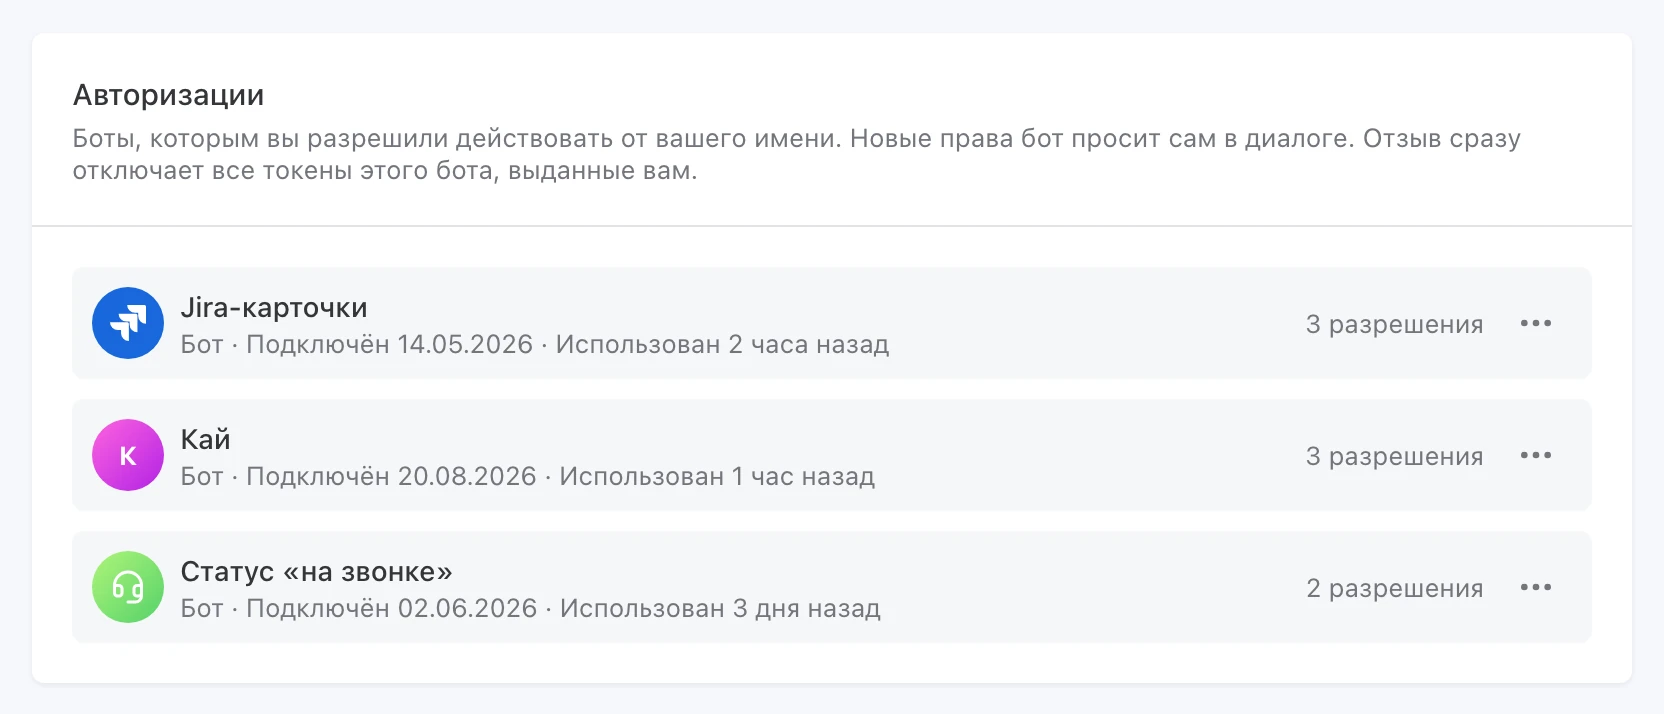
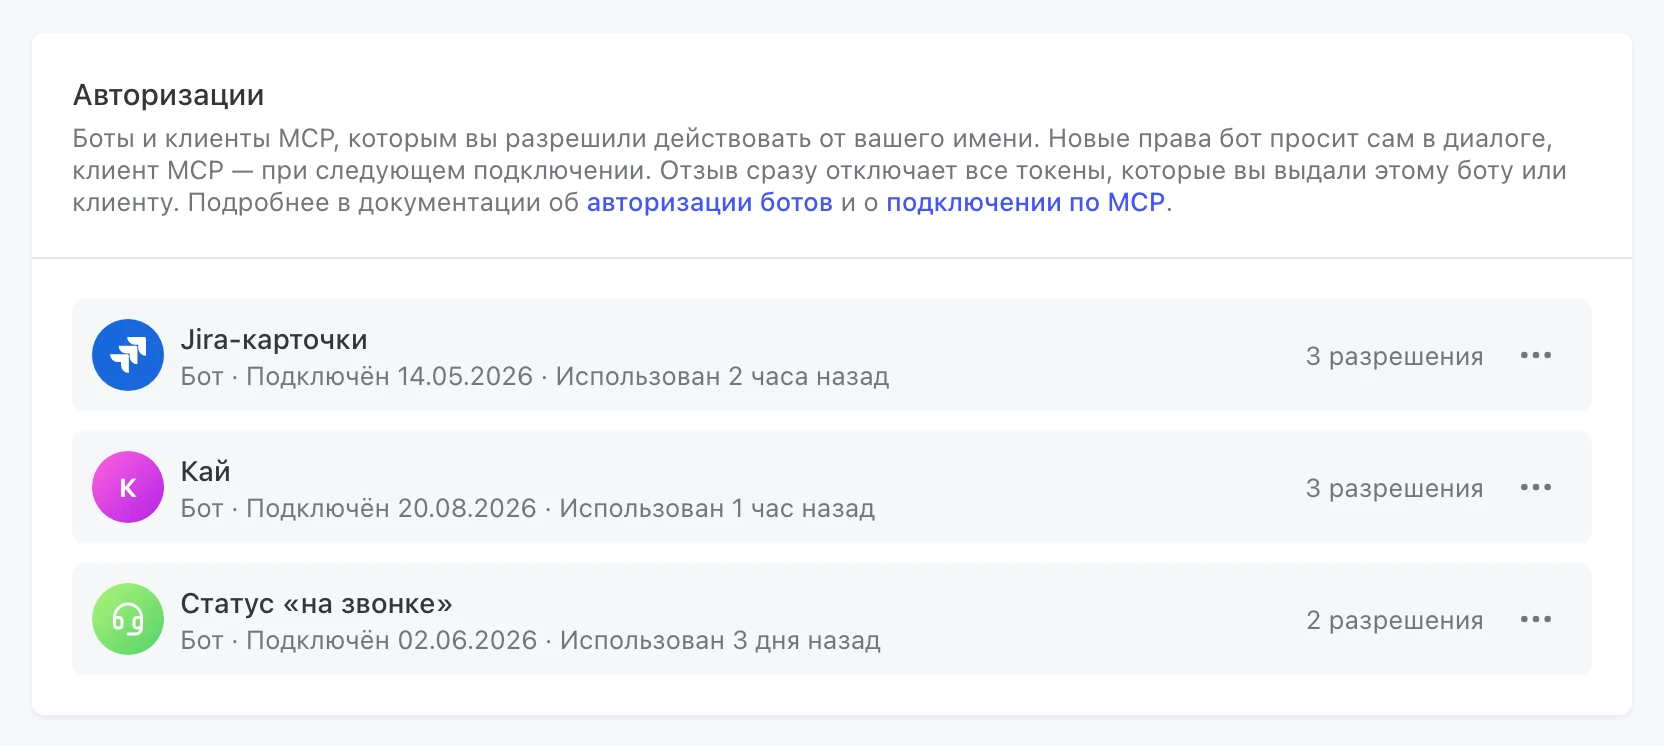
Дока: экран согласия с правами по категориям, новая подпись «Авторизаций» и плашка об обновлении продукта
- Пересняты кадры экрана согласия бота и программы с MCP: запрашиваемые права собраны в свёрнутые категории с числом прав в каждой.
- Пересняты кадры списка «Авторизации»: подпись одна для любого списка и ведёт в документацию, у Claude Code 61 разрешение.
- Текст про экран согласия в гайдах OAuth, MCP и CLI описывает категории, подписи к кадрам обновлены.
- Плашка «Обновления продукта» на странице обновлений ведёт на выпуск 28 октября «MCP-сервер Пачки».

diff --git a/apps/docs/components/mdx/mdx-components.tsx b/apps/docs/components/mdx/mdx-components.tsx
@@ -503,8 +503,8 @@ export async function ScopeRoles() {
 
 // Update manually when a new product release goes out
 const LATEST_PRODUCT_UPDATE = {
-  date: '15 октября 2026',
-  title: 'Большое обновление ботов 🤖',
+  date: '28 октября 2026',
+  title: 'MCP-сервер Пачки 🔌',
 };
 
 export function ProductUpdatesLink() {

diff --git a/apps/docs/public/guides/mcp/connect.md b/apps/docs/public/guides/mcp/connect.md
@@ -47,7 +47,7 @@
 Попросите агента: «Покажи мой профиль в Пачке». Он вызовет `pachca_get_my_card` и ответит вашим именем и ролью.
 
 
-![Экран согласия при подключении Claude Code: «Авторизовать Claude Code?», домен claude.ai, пространство и почта сотрудника, начало списка запрашиваемых разрешений](/images/mcp/mcp-consent.webp)
+![Экран согласия при подключении Claude Code: «Авторизовать Claude Code?», домен claude.ai, пространство и почта сотрудника, запрашиваемые разрешения в свёрнутых категориях с числом прав, предупреждение и кнопки «Отменить» и «Разрешить»](/images/mcp/mcp-consent.webp)
 
 *Экран согласия для программы с MCP*
 
@@ -56,7 +56,7 @@
 
 - имя программы из её документа клиента и под ним домен, на котором программа опубликовала этот документ, например `claude.ai`;
 - пространство и вашу почту: доступ выдаётся в пространство, которое сейчас открыто в браузере;
-- **Запрашиваемые разрешения** — права, которые просит программа, обычно весь каталог. Убрать отдельные права на экране нельзя;
+- **Запрашиваемые разрешения** — права, которые просит программа, обычно весь каталог. Они собраны в свёрнутые категории с числом прав в каждой, а убрать отдельные права на экране нельзя;
 - предупреждение, если программа возвращает браузер на этот же компьютер: «Разрешайте, только если вы сами сейчас подключаете … на этом компьютере».
 
 Права из каталога не расширяют ваши возможности. Каждый вызов проверяется по вашей текущей роли, и если роль не позволяет действие, агент получит отказ. Как устроен экран согласия в целом — в разделе [Согласие и отзыв](/guides/oauth/consent).
@@ -537,7 +537,7 @@ asyncio.run(main())
 
 Подключения через браузер собраны в списке **Авторизации** на странице **Интеграции** > **API**. У программы видно домен, дату подключения, последнее использование и число разрешений, а меню позволяет посмотреть разрешения и отозвать доступ. Когда в Пачке появляются новые права, программа получает их при следующем подключении.
 
-![Список «Авторизации» на странице «API»: клиент MCP Claude Code с доменом claude.ai и бот «Jira-карточки», даты подключения, последнее использование и число разрешений](/images/mcp/mcp-authorizations.webp)
+![Список «Авторизации» на странице «API»: подпись со ссылками на документацию, клиент MCP Claude Code с доменом claude.ai и бот «Jira-карточки», даты подключения, последнее использование и число разрешений](/images/mcp/mcp-authorizations.webp)
 
 *Программа с MCP в списке «Авторизации»*
 

diff --git a/apps/docs/public/guides/oauth/consent.md b/apps/docs/public/guides/oauth/consent.md
@@ -9,7 +9,7 @@
 
 Кнопка авторизации открывает экран согласия в веб-версии Пачки.
 
-![Экран согласия: «Авторизовать Jira-карточки?», пространство, почта сотрудника, запрашиваемые разрешения и кнопки «Отменить» и «Разрешить»](/images/oauth/consent.webp)
+![Экран согласия: «Авторизовать Jira-карточки?», пространство, почта сотрудника, запрашиваемые разрешения в свёрнутых категориях и кнопки «Отменить» и «Разрешить»](/images/oauth/consent.webp)
 
 *Экран согласия*
 
@@ -18,7 +18,7 @@
 
 - вопрос «Авторизовать …?» с именем бота и рядом два аватара — свой и бота;
 - пространство и свою почту — чтобы не выдать доступ из чужого аккаунта;
-- **Запрашиваемые разрешения** — набор из настроек бота, а когда прав много, они сгруппированы по категориям;
+- **Запрашиваемые разрешения** — набор из настроек бота, собранный в свёрнутые категории с числом прав в каждой. Права категории видны по щелчку;
 - кнопки **Разрешить** и **Отменить**.
 
 После **Разрешить** браузер сразу возвращается на адрес бота с кодом авторизации. **Отменить** возвращает браузер назад, и бот ничего не получает.
@@ -48,7 +48,7 @@
 
 Все боты, которым сотрудник выдал доступ, собраны в списке **Авторизации** на странице **Интеграции** > **API**. Для каждого видно, когда бот подключён и когда последний раз использовался, а меню позволяет посмотреть выданные разрешения и отозвать доступ. В том же списке — программы с AI-агентами, которые сотрудник подключил к MCP-серверу Пачки. Подробнее — в разделе [Подключение к MCP](/guides/mcp/connect#upravlenie-podklyucheniyami).
 
-![Список «Авторизации» на странице «API»: боты, дата подключения, последнее использование и число разрешений](/images/oauth/authorizations.webp)
+![Список «Авторизации» на странице «API»: подпись со ссылками на документацию, боты, дата подключения, последнее использование и число разрешений](/images/oauth/authorizations.webp)
 
 *Список «Авторизации»*
 

diff --git a/apps/docs/public/guides/cli/authentication.md b/apps/docs/public/guides/cli/authentication.md
@@ -31,7 +31,7 @@ pachca auth login
 
 Ссылку с уже подставленным кодом CLI не печатает: такая ссылка работает как фишинг, если переслать её на чужое устройство.
 
-На экране подтверждения показан список запрашиваемых прав — выбирать из него нельзя. CLI запрашивает весь каталог, но выдаётся только то, что доступно вашей роли: набор фиксируется в момент подтверждения и дальше не меняется, даже если роль изменится. Что в итоге выдано, показывает `pachca auth status`.
+На экране подтверждения запрашиваемые права собраны в свёрнутые категории, выбирать отдельные права нельзя. CLI запрашивает весь каталог, но выдаётся только то, что доступно вашей роли: набор фиксируется в момент подтверждения и дальше не меняется, даже если роль изменится. Что в итоге выдано, показывает `pachca auth status`.
 
 Токен такого входа живёт **час** и продлевается сам: перед каждой командой CLI проверяет срок и при необходимости обновляет токен. Когда параллельно работает несколько процессов (частый случай у агентов), обновляет только один из них, остальные дожидаются результата.
 

diff --git a/apps/docs/public/guides/oauth/overview.md b/apps/docs/public/guides/oauth/overview.md
@@ -34,7 +34,7 @@
 
 На экране согласия видны имя бота, пространство и запрашиваемые права. Сотрудник нажимает **Разрешить**.
 
-![Экран согласия: «Авторизовать Jira-карточки?», пространство, почта сотрудника, запрашиваемые разрешения и кнопки «Отменить» и «Разрешить»](/images/oauth/consent.webp)
+![Экран согласия: «Авторизовать Jira-карточки?», пространство, почта сотрудника, запрашиваемые разрешения в свёрнутых категориях и кнопки «Отменить» и «Разрешить»](/images/oauth/consent.webp)
 
 *Экран согласия*
 
@@ -43,7 +43,7 @@
 
 Браузер возвращается на адрес вашего сервера с кодом, сервер обменивает код на токен сотрудника. Бот появляется у сотрудника в списке **Авторизации** на странице **API**, а в витрине у бота — отметка **Подключено**.
 
-![Список «Авторизации» на странице «API»: боты, дата подключения, последнее использование и число разрешений](/images/oauth/authorizations.webp)
+![Список «Авторизации» на странице «API»: подпись со ссылками на документацию, боты, дата подключения, последнее использование и число разрешений](/images/oauth/authorizations.webp)
 
 *Бот в списке «Авторизации»*
 
